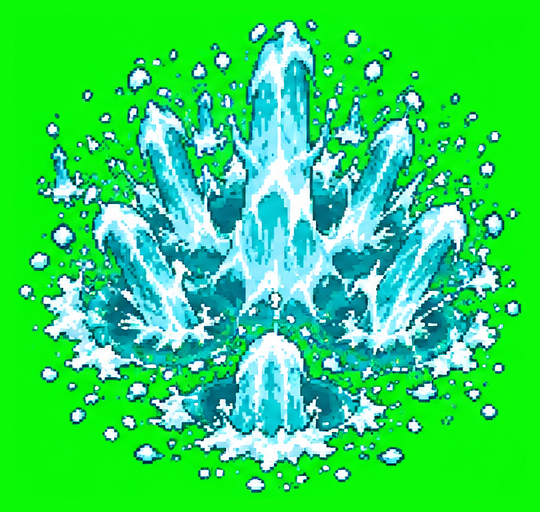
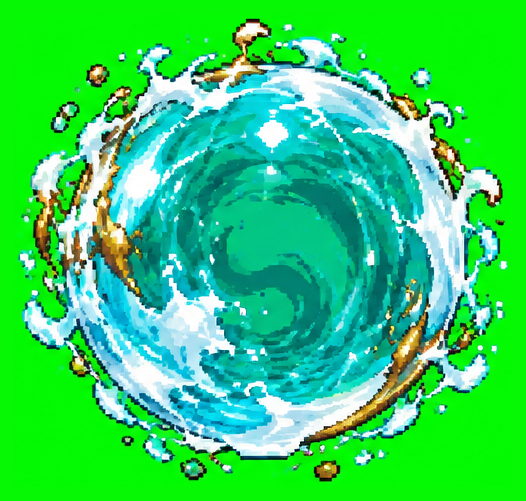
Gameplay: artes novas do Harbor (Storm Surge, High Tide, Reckoning)
Claude-Session: https://claude.ai/code/session_01HCDBFFKKwS6bevGEZdYEEk

diff --git a/src/gameplay/habilidades_controladores.js b/src/gameplay/habilidades_controladores.js
@@ -106,7 +106,7 @@ Object.assign(GP.HABS, {
     c: {nome: 'Storm Surge', cargas: 1, usar(J, e) {
       const alvo = GP._pontoMirado(J, e, 18);
       GP._lancar(J, e, {vel: 18, alcance: alvo.d, img: 'c_projetil', ag: 'harbor', aoParar: (J, p) => GP._area(J, {x: p.x, y: p.y, r: 3.5, ate: J.t + 0.9, img: 'c_area', ag: 'harbor', alfa: 0.6, aoFim: J => {
-        GP._fx(J, {x: p.x, y: p.y, img: 'c_area', ag: 'harbor', r: 3.6, dur: 0.7});
+        GP._fx(J, {x: p.x, y: p.y, img: 'c_clarao', ag: 'harbor', r: 3.6, dur: 0.7});
         for (const o of GP._noRaio(J, e, p.x, p.y, 3.5, false)) { GP._miope(J, o, 3); GP._ef(o).lento = J.t + 3; }
       }})});
     }},

diff --git a/tools/habilidades.py b/tools/habilidades.py
@@ -169,6 +169,7 @@ PECAS = {
     'harbor': ('azul-turquesa de água, branco de espuma e bronze antigo', VERDE, [
         ('c_projetil', 'projetil', 'uma esfera de água turquesa girando, com espuma em espiral (Storm Surge)'),
         ('c_area', 'area', 'um redemoinho de água turquesa explosivo no chão, girando para o centro, com espuma e gotas (Storm Surge)'),
+        ('c_clarao', 'clarao', 'o estouro do redemoinho: jatos de água turquesa e espuma subindo do centro (Storm Surge)'),
         ('q_parede', 'parede', 'uma parede alta de água turquesa correndo, com espuma e gotas (High Tide)'),
         ('e_area', 'area', 'uma cúpula esférica de água turquesa translúcida, com reflexos e espuma na borda (Cove)'),
         ('x_parede', 'parede', 'uma onda gigante de água turquesa avançando pelo chão, com espuma branca na crista (Reckoning)'),

diff --git a/assets/gameplay/habilidades/PROMPTS.md b/assets/gameplay/habilidades/PROMPTS.md
@@ -1,6 +1,6 @@
 # Habilidades no mapa — prompts
 
-151 peças para os 29 agentes.
+152 peças para os 29 agentes.
 
 O que cada habilidade desenha no mapa, visto de cima: o que voa, o que fica no chão, a fumaça, o fogo e as paredes.
 Os ícones C/Q/E/X do HUD continuam como estão, nas pastas dos agentes.
@@ -703,6 +703,12 @@ Sprite de efeito para jogo de tiro tático visto exatamente de cima (câmera a 9
 
 ```
 Sprite de efeito para jogo de tiro tático visto exatamente de cima (câmera a 90° apontando para baixo, sem perspectiva), em pixel art detalhada e limpa estilo jogo indie moderno, contorno escuro fino onde houver objeto sólido, cores vivas. Um redemoinho de água turquesa explosivo no chão, girando para o centro, com espuma e gotas (Storm Surge), visto de cima: um efeito redondo que cobre o chão, mais denso no meio e com a borda se desfazendo em partículas. O centro da imagem é o centro do efeito; ele ocupa quase toda a imagem sem encostar na borda. Paleta: azul-turquesa de água, branco de espuma e bronze antigo. Fundo liso #00FF00 (verde puro, sem degradê), sem sombra no chão, sem texto, sem letras, sem personagens. Imagem 1024×1024.
+```
+
+#### c_clarao
+
+```
+Sprite de efeito para jogo de tiro tático visto exatamente de cima (câmera a 90° apontando para baixo, sem perspectiva), em pixel art detalhada e limpa estilo jogo indie moderno, contorno escuro fino onde houver objeto sólido, cores vivas. O estouro do redemoinho: jatos de água turquesa e espuma subindo do centro (Storm Surge), visto de cima: uma explosão de luz e partículas saindo do centro da imagem, sem objeto sólido, ocupando quase toda a imagem sem encostar na borda. Paleta: azul-turquesa de água, branco de espuma e bronze antigo. Fundo liso #00FF00 (verde puro, sem degradê), sem sombra no chão, sem texto, sem letras, sem personagens. Imagem 1024×1024.
 ```
 
 #### q_parede
